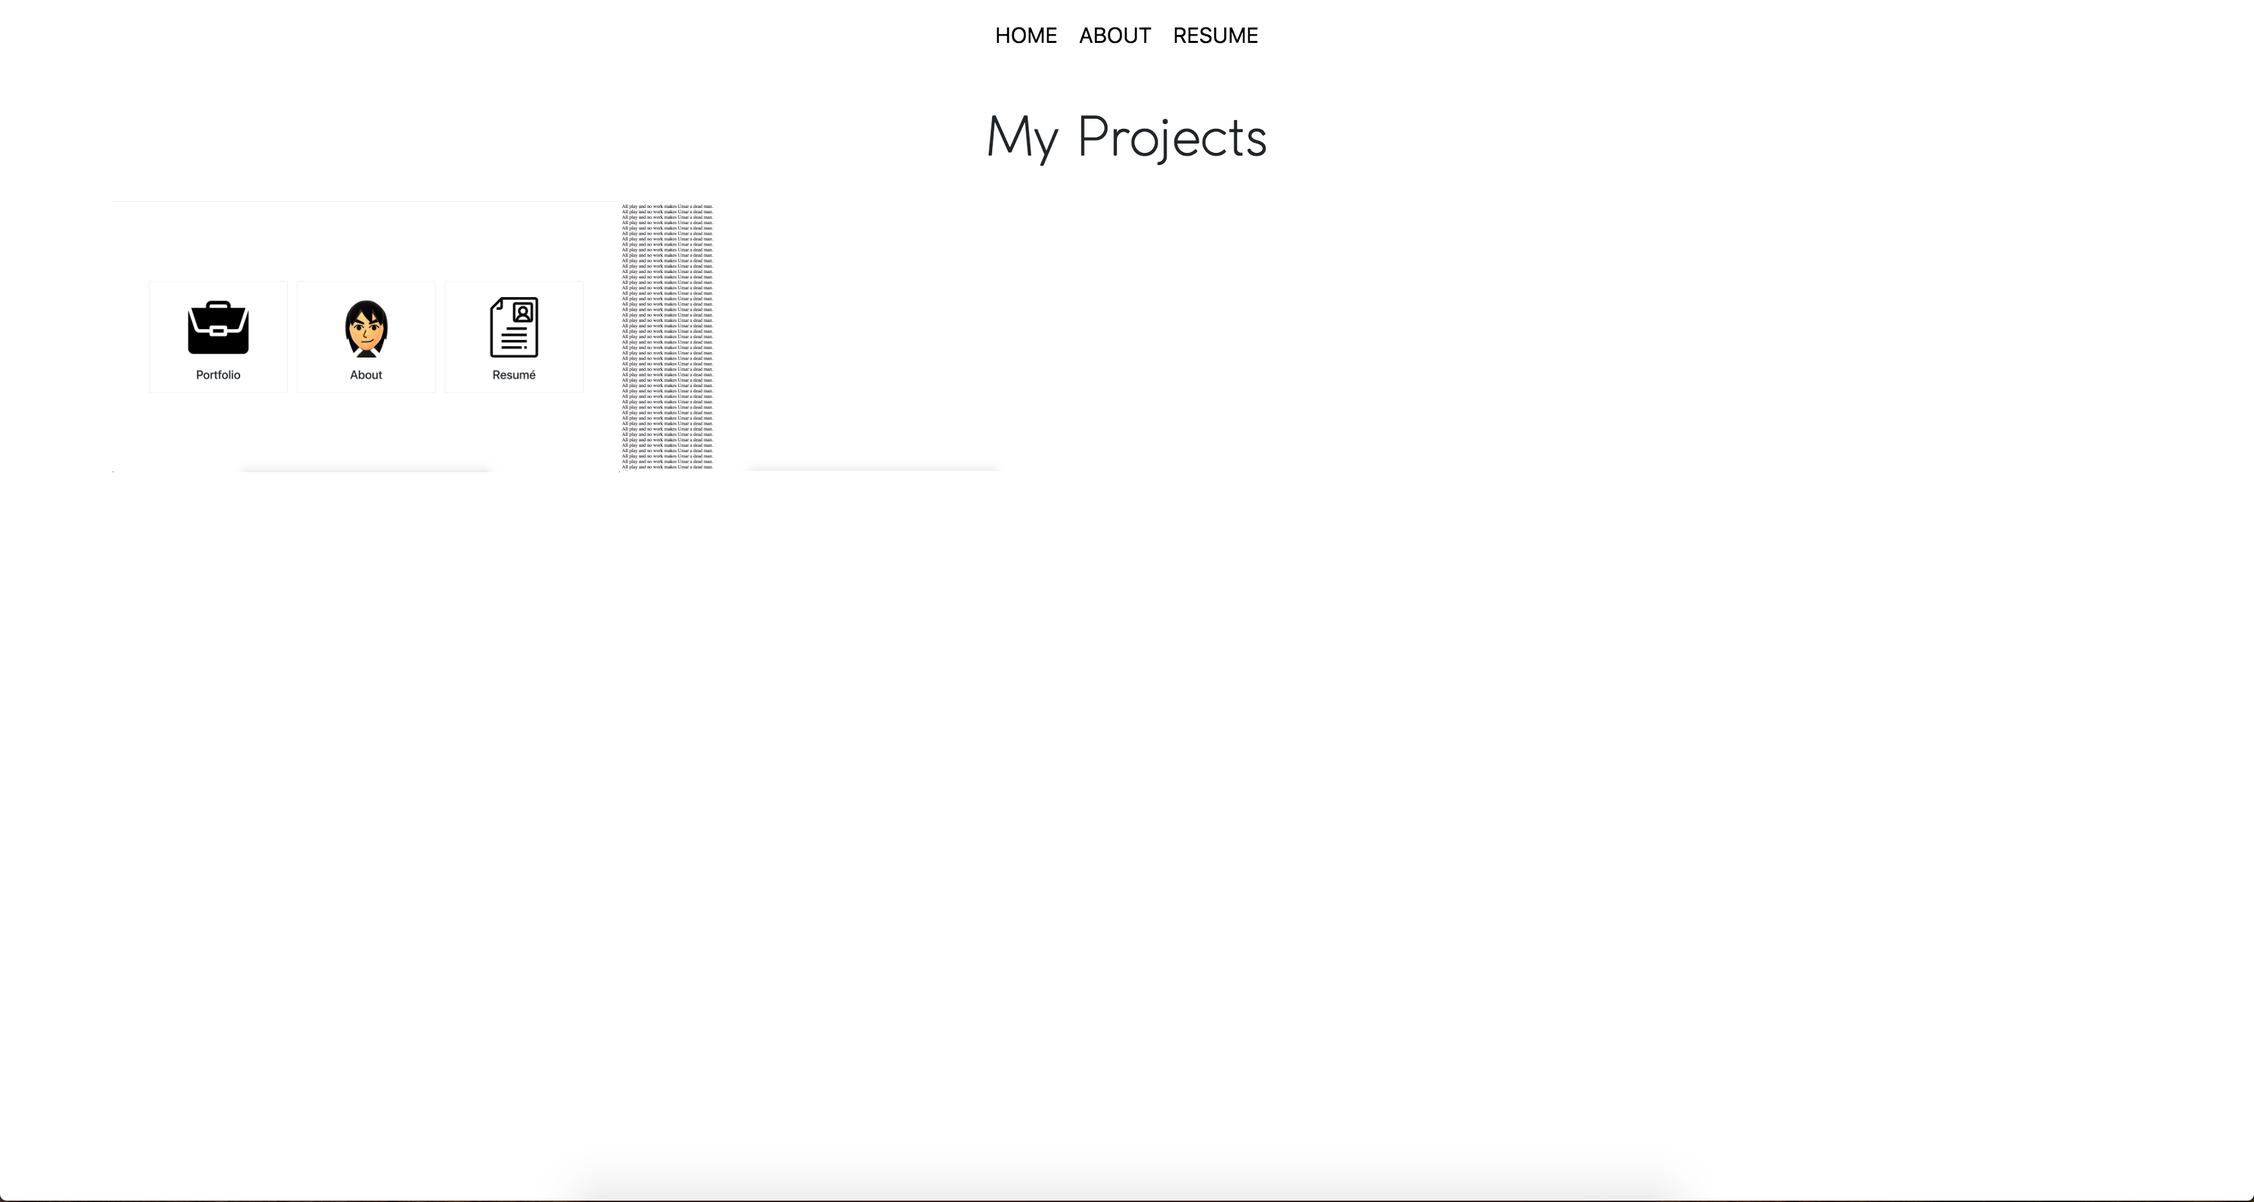
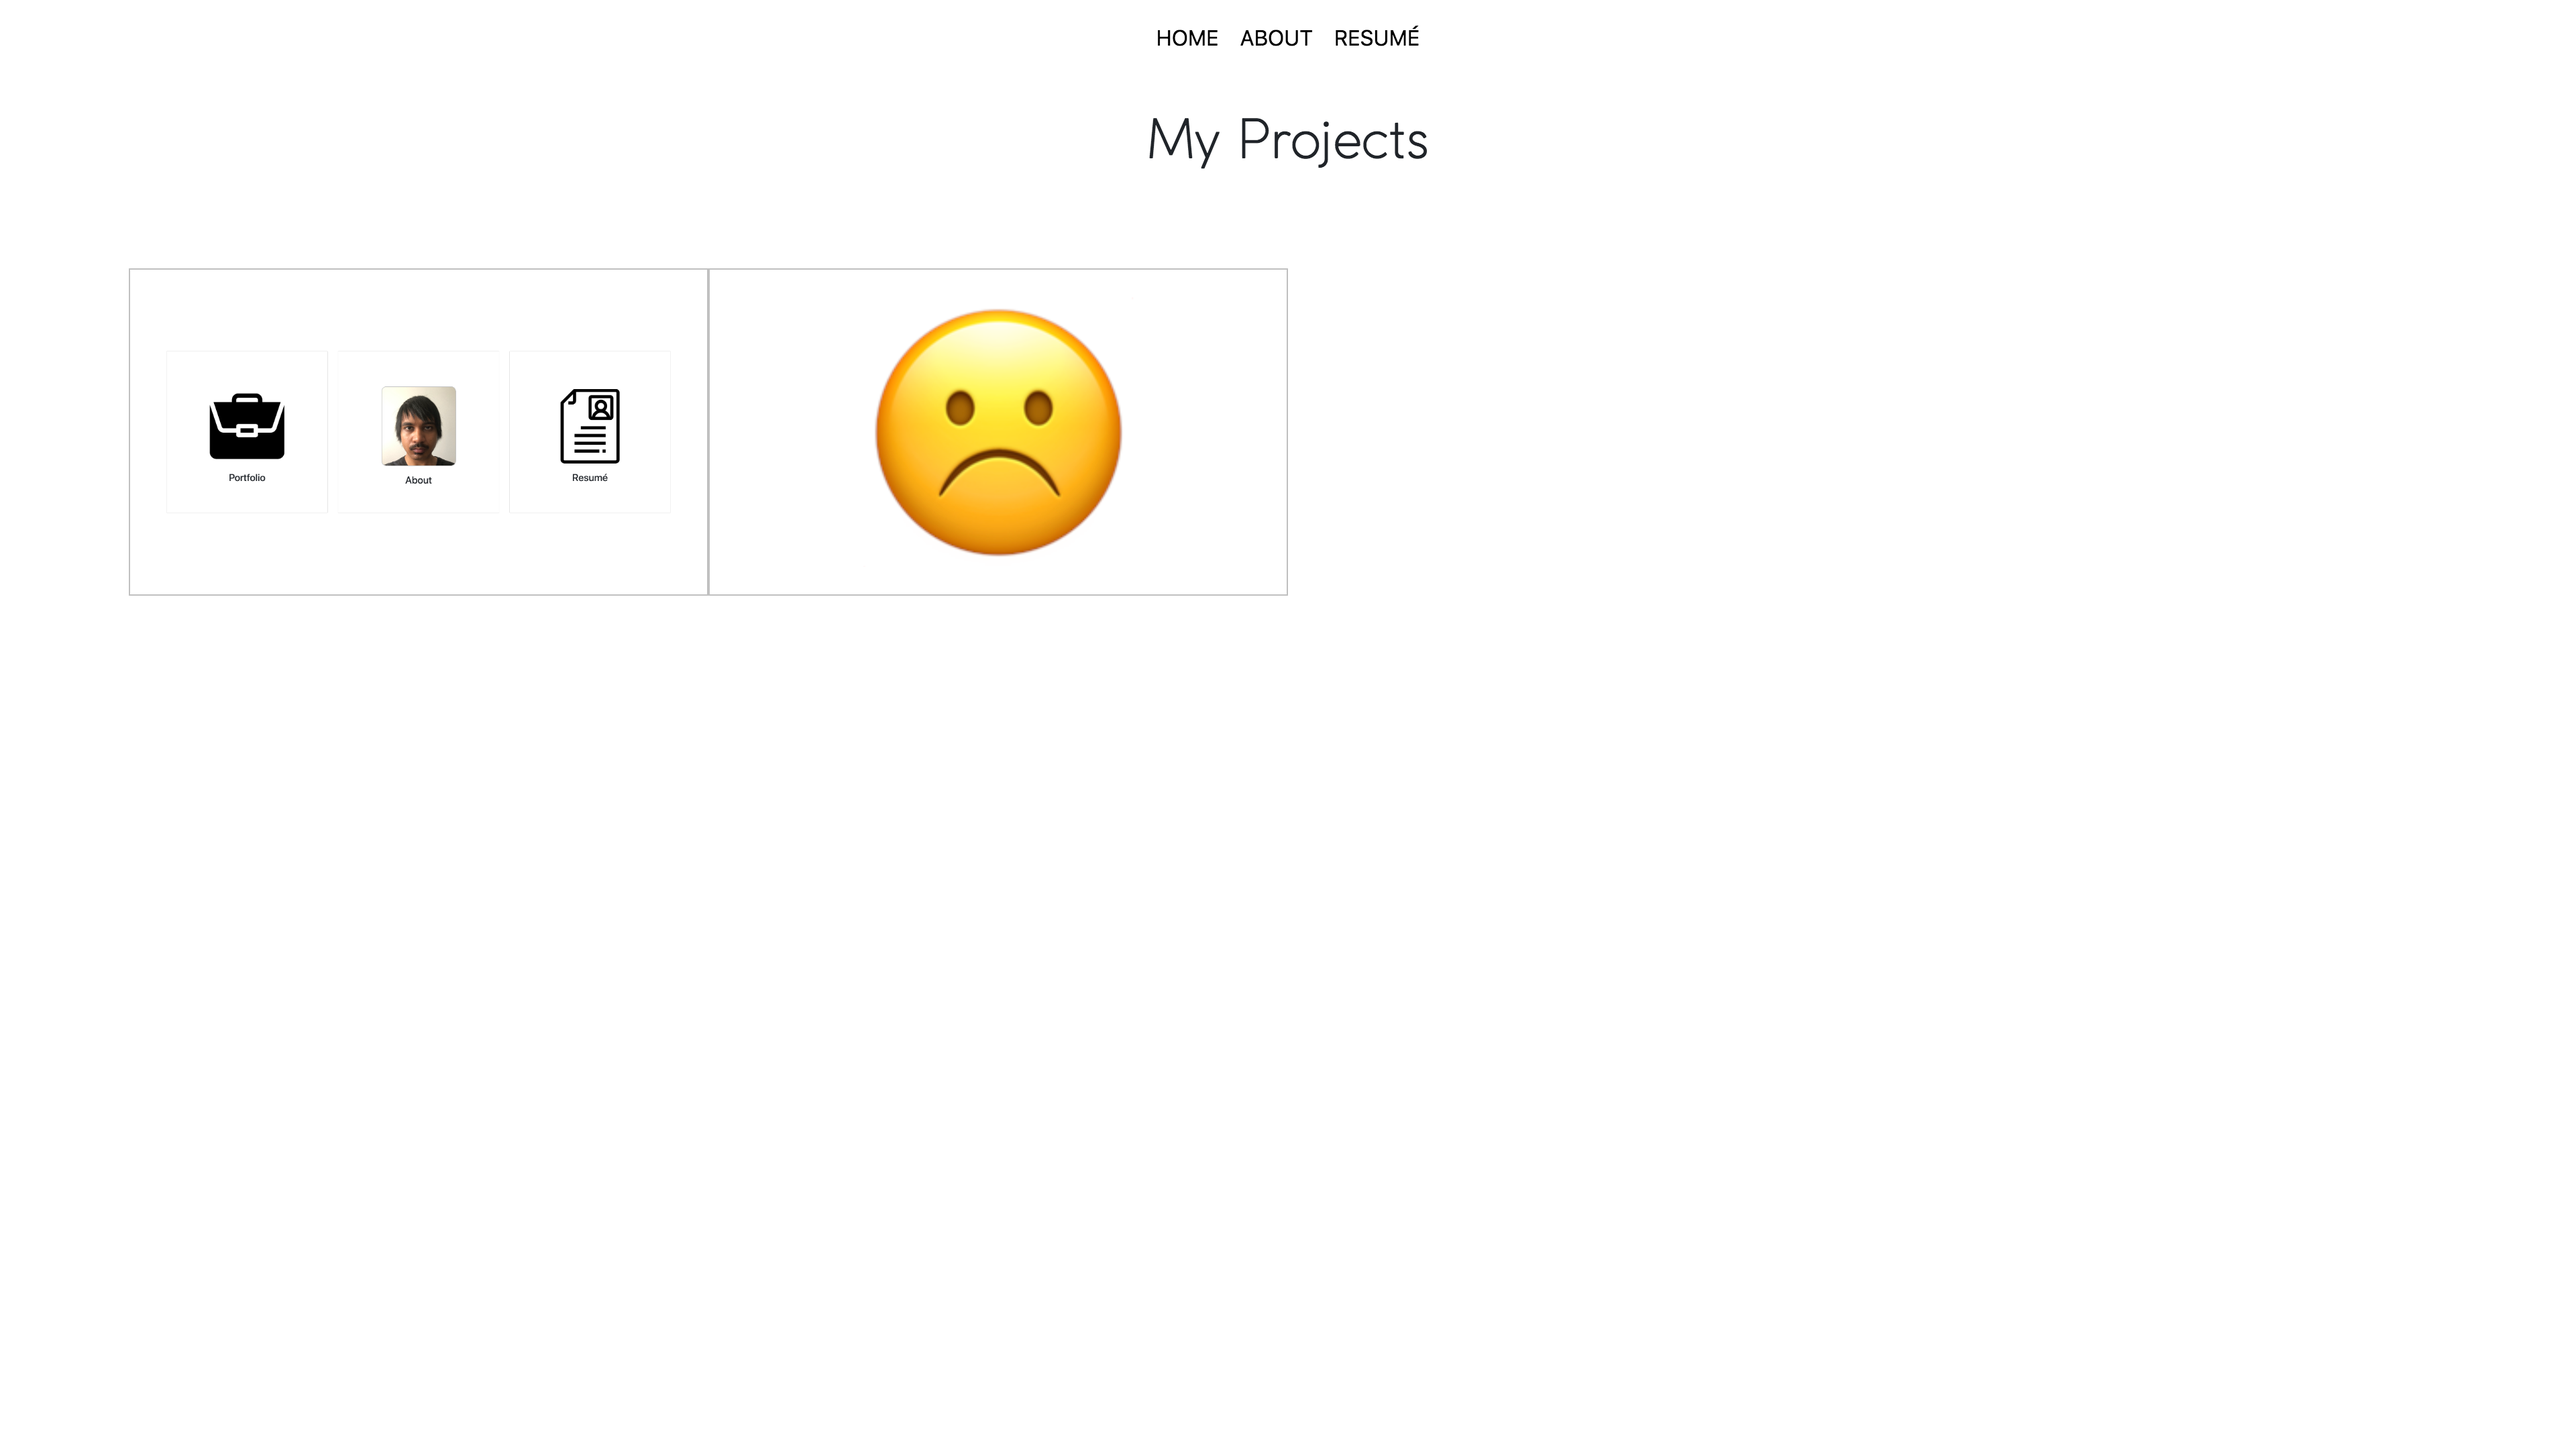
Add files via upload

diff --git a/index.html b/index.html
@@ -33,7 +33,7 @@
                 <div id="about-card" class="card text-center animated fadeInDown">
                     <div class="card-body mx-auto">
                         <div class="card-wrapper my-auto">
-                            <img src="./images/home/Profile Test.png" class="tab-img">
+                            <img src="./images/home/Profile.jpg" class="tab-img profile-image">
                             <h1 class="card-title my-auto">
                                 About
                             </h1>
@@ -176,7 +176,7 @@
             <div id="portfolio-alert" class="modal fade">
                 <div class="modal-dialog modal-dialog-centered" role="document">
                     <div class="modal-content">
-                        <div class="modal-body">
+                        <div class="modal-body" style="font-size: large;">
                             <button type="button" class="close" data-dismiss="modal" aria-label="Close">
                                 <span aria-hidden="true">&times;</span>
                             </button>
@@ -269,7 +269,7 @@
 
         <div id="about-container">
             <div id="contact-placeholder" class="container-fluid text-center">
-                <img src="./images/home/Profile Test.png" class="tab-img justify-content-center">
+                <img src="./images/home/Profile.jpg" class="tab-img profile-image justify-content-center my-4">
                 <div id="contact-icons" class="justify-content-center">
                     <div id="linkedin-container" class="mx-2 mb-4">
                         <img src="./images/contact/linkedin.png" class="contact-icon justify-content-center">

diff --git a/css/styles.css b/css/styles.css
@@ -121,6 +121,16 @@ a:hover {
     margin-bottom: 3rem;
 }
 
+.profile-image {
+    object-fit: cover;
+    height: 220px;
+    object-position: top;
+    border-radius: 20px;
+    border-style: solid;
+    border-color: silver;
+    border-width: 2px;
+}
+
 #about-card {
     order: 1;
     margin-bottom: 3rem;
@@ -157,6 +167,9 @@ a:hover {
     margin-top: 3rem;
     margin-bottom: 3rem;
     padding: 0 !important;
+    border-style: solid;
+    border-color: silver;
+    border-width: 1px;
 }
 
 .project-thumbnail {
@@ -364,6 +377,10 @@ a:hover {
 
 
 @media (min-width: 768px) {
+    .profile-image {
+        margin-bottom: 2rem;
+    }
+
     #navbar-mobile-items-wrapper .card{
         display: flex;
         width: 300px;
@@ -422,6 +439,19 @@ a:hover {
         margin-top: 2rem;
         margin-bottom: 2rem;
     }
+
+    .profile-image {
+        object-fit: cover;
+        height: 220px;
+        object-position: top;
+        border-radius: 20px;
+        border-style: solid;
+        border-color: silver;
+        border-width: 2px;
+        margin-bottom: 1.5rem;
+    }
+
+
 
     #portfolio-container .container {
         max-width: 90%;
@@ -554,6 +584,17 @@ a:hover {
     .tab-img {
         width: 300px;
         height: 300px;
+    }
+
+    .profile-image {
+        object-fit: cover;
+        height: 320px;
+        object-position: top;
+        border-radius: 20px;
+        border-style: solid;
+        border-color: silver;
+        border-width: 2px;
+        margin-bottom: 2rem;
     }
 
     #contact-placeholder {

diff --git a/js/script.js b/js/script.js
@@ -11,13 +11,13 @@ $(document).ready(function(){
     
     $(window).resize(function(){
         if (window.matchMedia("(min-width: 992px)").matches) {
-            if ($("#navbar-mobile-container").css('diplay') != 'none') {
+            if ($("#navbar-mobile-container").css('display') != 'none') {
                 $("#navbar-container").show();
                 $("#navbar-mobile-container").hide();
             }
         }
         else {
-            if ($("#navbar-container").css('diplay') != 'none') {
+            if ($("#navbar-container").css('display') != 'none') {
                 $("#navbar-mobile-container").show();
                 $("#navbar-container").hide();
             }
@@ -89,10 +89,9 @@ $(document).ready(function(){
     if($("#navbar-container").css('diplay') != 'none') {
         $(".home-link").click(function(){
             $("#portfolio-card").removeClass("fadeOutLeft");
-            $("#about-card").removeClass("fadeOutDown");
             $("#resume-card").removeClass("fadeOutRight");
             $("#portfolio-card").addClass("fadeInLeft");
-            $("#about-card").addClass("fadeInDown");
+            aboutTransitionIn();
             $("#resume-card").addClass("fadeInRight");
             $("#navbar-container").fadeOut();
             $("#navbar-container").delay(500).hide();
